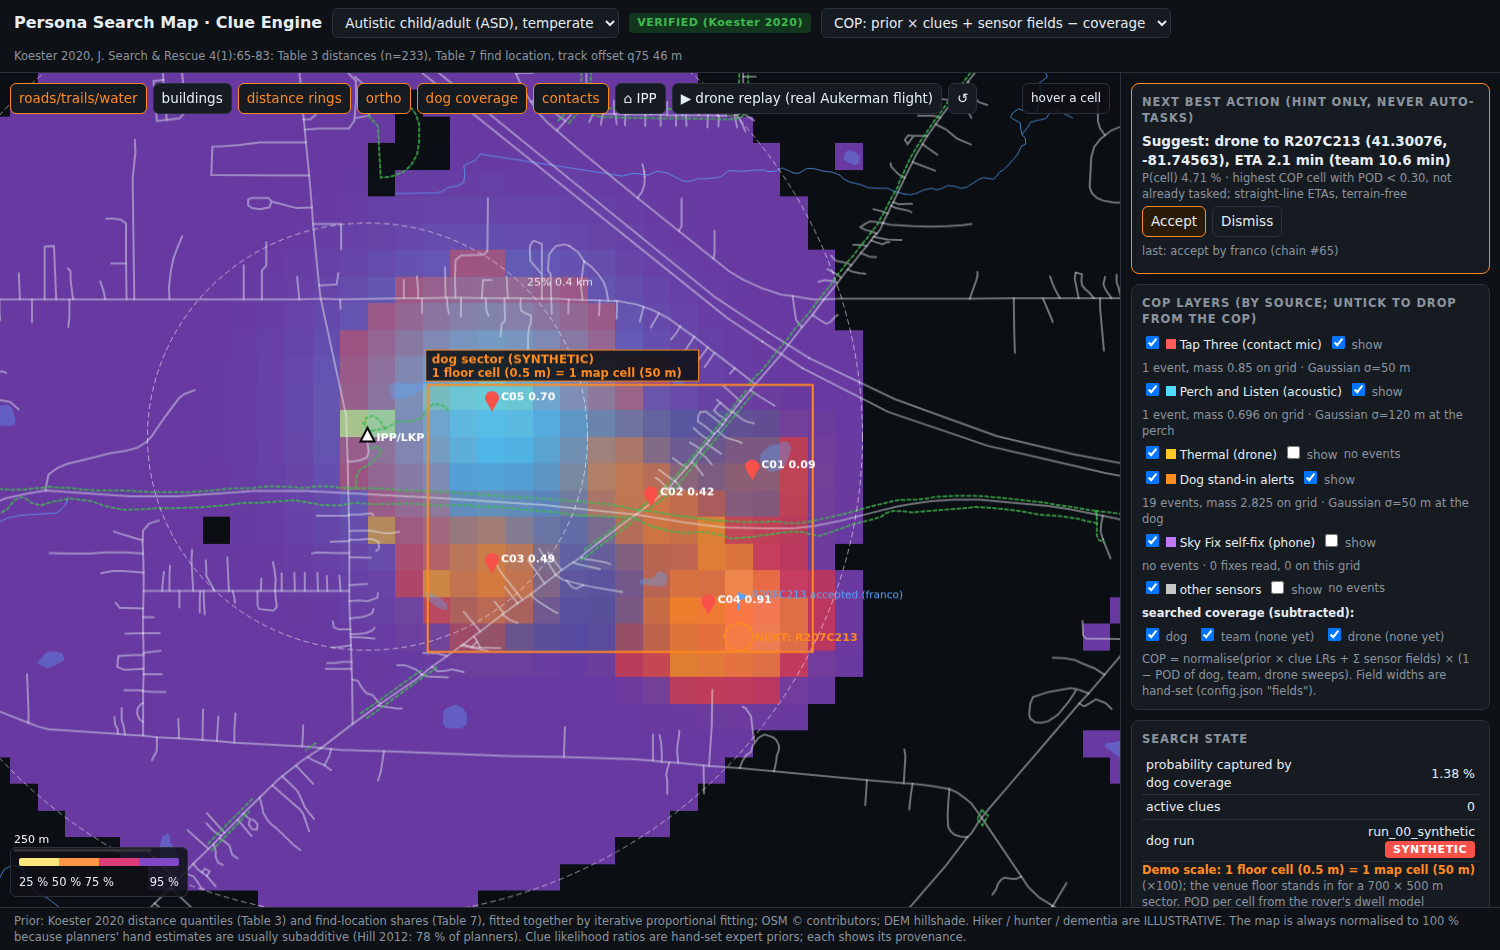
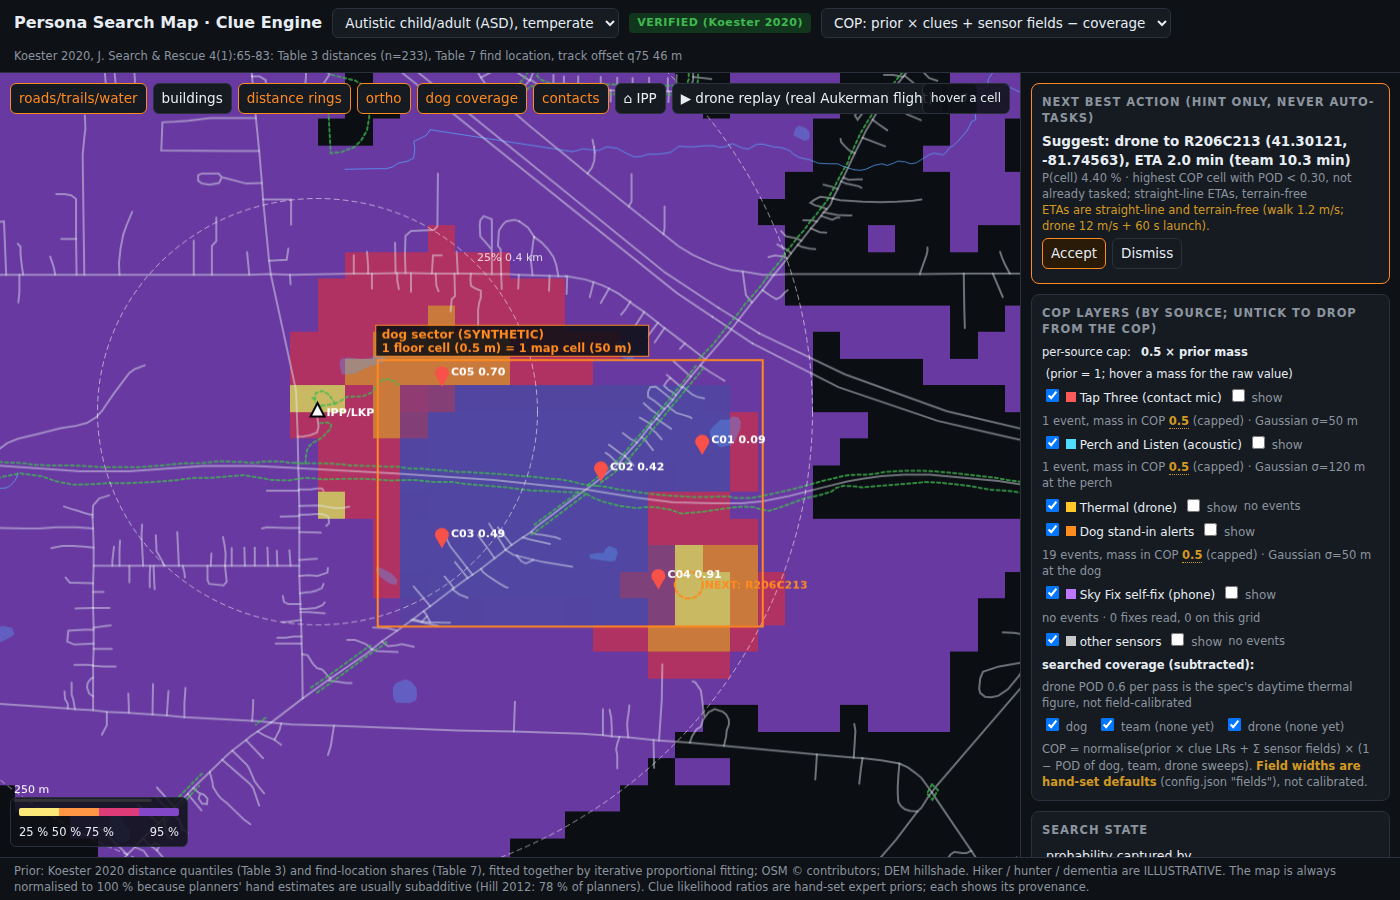
night: per-source field cap + honesty labels

diff --git a/spark/night/code/map/index.html b/spark/night/code/map/index.html
@@ -64,10 +64,11 @@ footer{color:var(--mute);font-size:11.5px;padding:5px 14px;border-top:1px solid 
   <aside class="side">
     <div class="card" id="nbaCard" style="border-color:var(--acc)"><h2>Next best action (hint only, never auto-tasks)</h2>
       <div id="nbaText" style="font-weight:600">—</div><div class="prov" id="nbaBasis"></div>
+      <div class="prov" style="color:var(--warn)">ETAs are straight-line and terrain-free (walk 1.2 m/s; drone 12 m/s + 60 s launch).</div>
       <div class="row"><button id="nbaAccept" class="primary">Accept</button><button id="nbaDismiss">Dismiss</button><span class="prov" id="nbaOut"></span></div>
     </div>
     <div class="card"><h2>COP layers (by source; untick to drop from the COP)</h2><div id="layerList" class="prov">—</div>
-      <div class="prov" style="margin-top:6px">COP = normalise(prior × clue LRs + Σ sensor fields) × (1 − POD of dog, team, drone sweeps). Field widths are hand-set (config.json "fields").</div></div>
+      <div class="prov" style="margin-top:6px">COP = normalise(prior × clue LRs + Σ sensor fields) × (1 − POD of dog, team, drone sweeps). <b style="color:var(--warn)">Field widths are hand-set defaults</b> (config.json "fields"), not calibrated.</div></div>
     <div class="card"><h2>Search state</h2>
       <table><tr><td>probability captured by searched coverage (dog + team + drone)</td><td class="n" id="cap">—</td></tr>
       <tr><td>active clues</td><td class="n" id="nclues">0</td></tr>
@@ -229,8 +230,9 @@ function renderLayers(){
   const lab={tap3:'Tap Three (contact mic)',perch:'Perch and Listen (acoustic)',thermal:'Thermal (drone)',dog:'Dog stand-in alerts',skyfix:'Sky Fix self-fix (phone)',other:'other sensors'};
   let h=srcs.map(k=>{ const f=F[k]; const c=SRC_COL[k]; const extra=k==='skyfix'?` · ${S.skyfix.n} fixes read, ${S.skyfix.on_grid} on this grid`:'';
     return `<div class="row"><label style="color:var(--fg)"><input type="checkbox" data-src="${k}" ${EN[k]?'checked':''}> <i class="sw" style="display:inline-block;width:10px;height:10px;background:rgb(${c})"></i> ${lab[k]}</label>
-     <label><input type="checkbox" data-show="${k}" ${SHOWF[k]?'checked':''}> show</label><span>${f?`${f.n} event${f.n>1?'s':''}, mass ${f.mass_on_grid} on grid · ${f.kernels.join('; ')}`:'no events'}${extra}</span></div>`; }).join('');
-  h+='<div class="row" style="margin-top:6px"><b style="color:var(--fg)">searched coverage (subtracted):</b></div>'+['dog','team','drone'].map(k=>`<label style="margin-right:10px"><input type="checkbox" data-cov="${k}" ${SHOWC[k]?'checked':''}> ${k}${S.pod_layers&&S.pod_layers[k]?'':' (none yet)'}</label>`).join('');
+     <label><input type="checkbox" data-show="${k}" ${SHOWF[k]?'checked':''}> show</label><span>${f?`${f.n} event${f.n>1?'s':''}, mass in COP <b title="raw mass on grid before the cap: ${f.mass_on_grid} (${f.mass} incl. off-grid)${f.cap_scale<1?' — scaled ×'+f.cap_scale:''}" style="color:${f.cap_scale<1?'var(--warn)':'var(--fg)'};border-bottom:1px dotted;cursor:help">${f.capped_mass}</b>${f.cap_scale<1?' (capped)':''} · ${f.kernels.join('; ')}`:'no events'}${extra}</span></div>`; }).join('');
+  h='<div class="row" style="color:var(--fg)">per-source cap: <b>&nbsp;'+S.field_cap+' × prior mass</b>&nbsp;(prior = 1; hover a mass for the raw value)</div>'+h;
+  h+='<div class="row" style="margin-top:6px"><b style="color:var(--fg)">searched coverage (subtracted):</b> <span>drone POD '+S.drone_pod_per_pass+' per pass is the spec\'s daytime thermal figure, not field-calibrated</span></div>'+['dog','team','drone'].map(k=>`<label style="margin-right:10px"><input type="checkbox" data-cov="${k}" ${SHOWC[k]?'checked':''}> ${k}${S.pod_layers&&S.pod_layers[k]?'':' (none yet)'}</label>`).join('');
   $('layerList').innerHTML=h;
   $('layerList').querySelectorAll('[data-src]').forEach(el=>el.onchange=()=>{EN[el.dataset.src]=el.checked?1:0; load();});
   $('layerList').querySelectorAll('[data-show]').forEach(el=>el.onchange=()=>{SHOWF[el.dataset.show]=el.checked?1:0; draw();});

diff --git a/spark/night/code/fusion/console.html b/spark/night/code/fusion/console.html
@@ -35,6 +35,7 @@ pre{white-space:pre-wrap;word-break:break-all;font-size:11.5px;margin:0;color:#c
     <table><thead><tr><th>id</th><th>p(person)</th><th>sources</th><th>where</th><th>status</th><th></th></tr></thead><tbody id="ct"></tbody></table></div>
   <div class="card" style="border-color:var(--acc)"><h2>Next best action (from the map's COP; hint only, never auto-tasks)</h2>
     <div id="nbaT" style="font-weight:600">—</div><div class="src" id="nbaB"></div>
+    <div class="src" style="color:var(--warn)">ETAs are straight-line and terrain-free. COP field widths are hand-set defaults; each source is capped at 0.5 × the prior's mass.</div>
     <div style="margin-top:6px"><button class="go" id="nbaA">Accept</button> <button class="no" id="nbaD">Dismiss</button> <span class="src" id="nbaO"></span></div></div>
   <div class="card"><h2>After-action review</h2><div class="kv" id="aar"></div></div>
   <div class="card"><h2>Last CoT pin (a-u-G unconfirmed → a-f-G confirmed; validated against cot-validator XSD)</h2><pre id="cot">—</pre></div>

diff --git a/spark/night/code/map/serve.py b/spark/night/code/map/serve.py
@@ -132,7 +132,8 @@ def compute(persona, enabled=None):
     fl = [f for f in (C.event_field(d, GRID, CFG, floor_to_en) for d in detections()) if f]
     sky = C.skyfix_fixes(SKYFIX_COT, GRID, CFG)
     fl += sky
-    layers = C.sum_fields(fl, GRID.E.shape)
+    raw_layers = C.sum_fields(fl, GRID.E.shape)
+    layers, capinfo = C.cap_layers(raw_layers, CFG["fields"].get("source_cap_frac", 0.5), 1.0)   # base is normalised to 1
     copm = C.cop(base, layers, pod, enabled)
     captured = float((base * pod).sum()) if pod is not None else 0.0
     STATE_F.write_text(json.dumps({"persona": persona, "probability_captured": round(captured, 5),
@@ -144,6 +145,7 @@ def compute(persona, enabled=None):
         d["n"] += 1; d["mass"] += f["mass"]; d["mass_on_grid"] += f["mass_on_grid"]; d["kernels"].add(f["kernel"].split(" (")[0])
     for d in summ.values():
         d["kernels"] = sorted(d["kernels"])[:3]; d["mass"] = round(d["mass"], 3); d["mass_on_grid"] = round(d["mass_on_grid"], 3)
+        ci = capinfo[d["source"]]; d["capped_mass"] = ci["capped"]; d["cap"] = ci["cap"]; d["cap_scale"] = ci["scale"]
     tasked = {tuple(x["nba"]["cell"]) for x in nba_log if x.get("nba") and x["nba"].get("cell")}
     nba = C.next_best_action(copm, pod, GRID, CFG, tasked)
     LAST.update({"persona": persona, "nba": nba, "t": time.time()})
@@ -204,6 +206,7 @@ def make_app():
                 "pod_layers": {k: sparse(v) for k, v in S["pods"].items()},
                 "field_layers": {k: sparse(v) for k, v in S["layers"].items()},
                 "fields": S["fields"], "enabled": sorted(en) if en else "all",
+                "field_cap": CFG["fields"].get("source_cap_frac", 0.5), "drone_pod_per_pass": CFG["coverage"]["drone_pod_per_pass"],
                 "skyfix": {"n": len(S["sky"]), "on_grid": sum(1 for f in S["sky"] if f["mass_on_grid"] > 1e-3),
                            "dir": str(SKYFIX_COT)},
                 "drone_t": DRONE_T["t"], "nba": S["nba"], "nba_log": nba_log[-20:],

diff --git a/spark/night/code/map/cop.py b/spark/night/code/map/cop.py
@@ -3,7 +3,9 @@
   base   = normalise(prior x prod LR(positive clues))                     (sums to 1)
   F_i    = m_i x g_i,  g_i a unit-mass kernel on the plane (mass falling outside the 20 km grid is lost),
            m_i = modality_weight[kind] x confidence  (Sky Fix: skyfix_weight x 1)
-  mix    = base + sum_i F_i
+  F_s    = sum of F_i from source s, then capped: if mass(F_s) > cap x mass(base) it is scaled down to exactly
+           that (cap = fields.source_cap_frac, default 0.5), so no single source can dominate the COP
+  mix    = base + sum_s F_s
   POD    = 1 − (1−POD_dog)(1−POD_team)(1−POD_drone)                       (independent sweeps)
   COP    = normalise(mix x (1 − POD))
 "Minus searched coverage" is applied multiplicatively (Bayes: P(subject in cell | not found there)); a literal
@@ -131,6 +133,19 @@ def sum_fields(fields: list[dict], shape) -> dict[str, np.ndarray]:
     for f in fields:
         layers[f["source"]] += f["field"]
     return layers
+
+
+def cap_layers(layers: dict[str, np.ndarray], cap_frac: float, prior_mass: float = 1.0):
+    """Scale each source's summed field so its mass on the grid is <= cap_frac x prior_mass.
+    Returns (capped layers, info {source: {raw, capped, scale, cap}})."""
+    cap = cap_frac * prior_mass
+    out, info = {}, {}
+    for s_, L in layers.items():
+        raw = float(L.sum())
+        k = cap / raw if raw > cap else 1.0
+        out[s_] = L * k
+        info[s_] = {"raw": round(raw, 4), "capped": round(raw * k, 4), "scale": round(k, 4), "cap": round(cap, 4)}
+    return out, info
 
 
 def combine_pod(*pods) -> np.ndarray:

diff --git a/spark/night/code/tests/test_night.py b/spark/night/code/tests/test_night.py
@@ -227,3 +227,24 @@ def test_next_best_action_selection():
     assert abs(nba["drone"]["eta_min"] - round((A["drone"]["launch_s"] + dist / A["drone"]["speed_mps"]) / 60, 1)) < 0.11
     assert nba["team"]["eta_min"] > nba["drone"]["eta_min"] and nba["asset"] == "drone"
     assert nba["text"].startswith("Suggest: drone to ")
+
+
+def test_field_cap_50_dog_alerts():
+    import cop
+    g, cfg = _grid(), _cfg()
+    f2e = lambda x, y: (x * 100.0, -y * 100.0)                  # noqa: E731
+    rng = np.random.default_rng(0)
+    dets = [{"sensor": "dog1", "kind": "knock", "confidence": 0.9, "position": {"x": float(rng.uniform(0, 6)), "y": float(rng.uniform(0, 4))}}
+            for _ in range(50)]
+    dets.append({"sensor": "tap3", "kind": "tap_pattern_3", "confidence": 0.4, "position": {"x": 1.0, "y": 1.0}, "extra": {"strength": 5}})
+    fl = [cop.event_field(d, g, cfg, f2e) for d in dets]
+    raw = cop.sum_fields(fl, g.E.shape)
+    cap = cfg["fields"]["source_cap_frac"]
+    assert raw["dog"].sum() > 10 * cap                                   # uncapped, 50 alerts would swamp the prior
+    capped, info = cop.cap_layers(raw, cap, 1.0)
+    assert capped["dog"].sum() <= cap + 1e-9 and info["dog"]["scale"] < 1
+    assert np.allclose(capped["tap3"], raw["tap3"]) and info["tap3"]["scale"] == 1.0   # under the cap: untouched
+    c = cop.cop(np.ones(g.E.shape), capped, None)
+    # the dog's share of the COP is at most cap / (1 + cap + tap mass)
+    share = capped["dog"].sum() / (1 + sum(L.sum() for L in capped.values()))
+    assert share <= cap / (1 + cap) + 1e-9 and abs(c.sum() - 1) < 1e-9

diff --git a/spark/night/README.md b/spark/night/README.md
@@ -10,7 +10,7 @@ cd ~/forge/night
 ./run_all.sh            # archives the previous evidence (never deletes), starts 4 services, prints URLs
 ~/forge/.venv/bin/python scenario.py          # demo driver: dog replay → inbox, then a tap3 replay
 ./stop_all.sh           # stops only the PIDs run_all.sh started
-~/forge/.venv/bin/python -m pytest -q tests   # 12 tests, ~8 s, HTTP-level
+~/forge/.venv/bin/python -m pytest -q tests   # 13 tests, ~8 s, HTTP-level
 ```
 | port | screen |
 |---|---|
@@ -37,7 +37,7 @@ Python: `~/forge/.venv/bin/python`. Two extra packages live in `night/vendor/` s
 **Probability fields (`map/cop.py`).** Every detection in the fusion inbox also becomes a probability field on the persona grid. Tap Three gives a Gaussian at the sensor, σ = 150 m × 5 / signal strength, clipped to 50–400 m; strength is the weakest tap's onset strength from `detect.py`. Perch and Listen gives a Gaussian at the configured perch point; "send perched detection to fusion" on :8142 emits it. Thermal gives a uniform disk under the drone footprint. A dog alert gives a Gaussian at the dog's position. A Sky Fix fix gives a Gaussian at its solved position with σ = its confidence radius; the map reads `~/forge/skyfix/cot/` read-only. Each field's mass is modality weight × confidence. **COP = normalise(persona prior × clue LRs + Σ fields) × (1 − POD)**, where POD combines dog, team (searched-no-find clues) and drone sweeps as independent passes. "Minus coverage" is applied multiplicatively (Bayes), because a literal subtraction can go negative. On :8143 each source is listed with its event count, mass on the grid and kernel. Unticking a source drops it from the COP; "show" overlays it in its own colour. Coverage overlays can be toggled per sweep type.
 **Next Best Action.** The highest-COP cell with POD < 0.3 that hasn't been tasked yet. ETAs are straight-line and terrain-free: team = distance / 1.2 m/s; drone = 60 s launch + distance / 12 m/s (`config.json` "assets"). The suggestion shows on :8143 and :8140 as "Suggest: drone to R…C…, ETA x min (team y min)" with Accept / Dismiss. The decision goes on the hash chain with the operator id (`nba_decision`). Accept also writes an XSD-validated waypoint CoT (`b-m-p-w`) and drops a flag on the map, and the next suggestion moves on. **It is a hint only: nothing is ever sent to an asset.**
 **Ortho base and drone replay.** The drone track is the *real* Aukerman survey flight: 77 camera positions and capture times from ODM's `shots.geojson`, 17 min, ~100 m above ground. Footprints (~135 × 102 m) come from the camera FOV and height above ground (DEM + approximate geoid −34 m). "▶ drone replay" plays it at 30×. The orthomosaic is revealed under the heat map tile by tile (36 × 28 tiles) as footprints first cover each tile, and the drone's coverage (POD 0.6 per pass, the pass-1 thermal-day figure, not field-calibrated) is subtracted from the COP.
-**Limits.** Field widths and weights are hand-set. Fields are summed literally, so a sensor that fires often weighs more: tonight's 19 synthetic dog alerts carry 2.8 units of mass against the prior's 1.0. Sky Fix's fixes so far are worldwide test frames with km-scale rings, none on the Ohio grid, so they add zero mass here. Thermal fields are implemented and tested, but no thermal hit was played into the demo, because we have no real thermal detection at this site and didn't invent one.
+**Limits.** Field widths and weights are hand-set. Each source's summed field is **capped at 0.5 × the prior's mass** (`fields.source_cap_frac`) before it is added. Tonight's 19 synthetic dog alerts (raw mass 2.8) enter the COP as 0.5. The cap also trims a single strong event: one tap (0.85) or one perch detection (0.70) enters as 0.5. The layer list shows each source's capped mass, with the raw mass in a tooltip. Sky Fix's fixes so far are worldwide test frames with km-scale rings, none on the Ohio grid, so they add zero mass here. Thermal fields are implemented and tested, but no thermal hit was played into the demo, because we have no real thermal detection at this site and didn't invent one.
 
 ## Background watcher
 `watch_data.py` (started by hand at 00:59; `./stop_all.sh` stops it) polls every 30 s. When a real dog run folder appears in `night/data/dog/` (or in `~/projects/Team-3/data/dog/`, symlinked in, read-only), it runs `dog/process_run.sh` on it. When new WAVs land in `night/data/tap3/`, it re-runs `tap3/eval.py`. Results and failures are logged to `WORKLOG.md`. Restart it with `( cd ~/forge/night && exec nohup ~/forge/.venv/bin/python watch_data.py > logs/watch.log 2>&1 ) &`.
